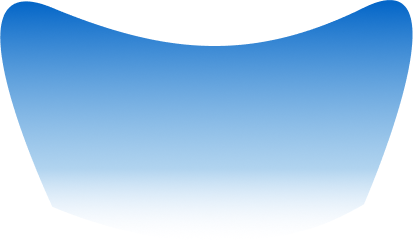
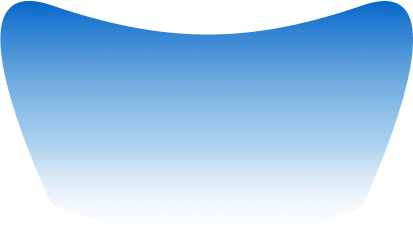
hall of fame section bug fix 1.2

diff --git a/static/assets/css/enosis.css b/static/assets/css/enosis.css
@@ -843,7 +843,8 @@ body   {
 }
 
 .hall-of-fame::before  {
-    height: 50%;
+    height: 45%;
+    margin-top: 3vw;
     background-image: url('/static/assets/images/hof-min.png');
 }
 
@@ -863,12 +864,12 @@ body   {
 }
 
 .grp-winners  {
-    margin-left: 2em;
-    margin-right: 2.5rem;
+    margin-left: 2.2em;
+    margin-right: 2rem;
 }
 
 .cards img {
-    height: 30vw;
+    height: 32vw;
     width: 25vw;
 }
 
